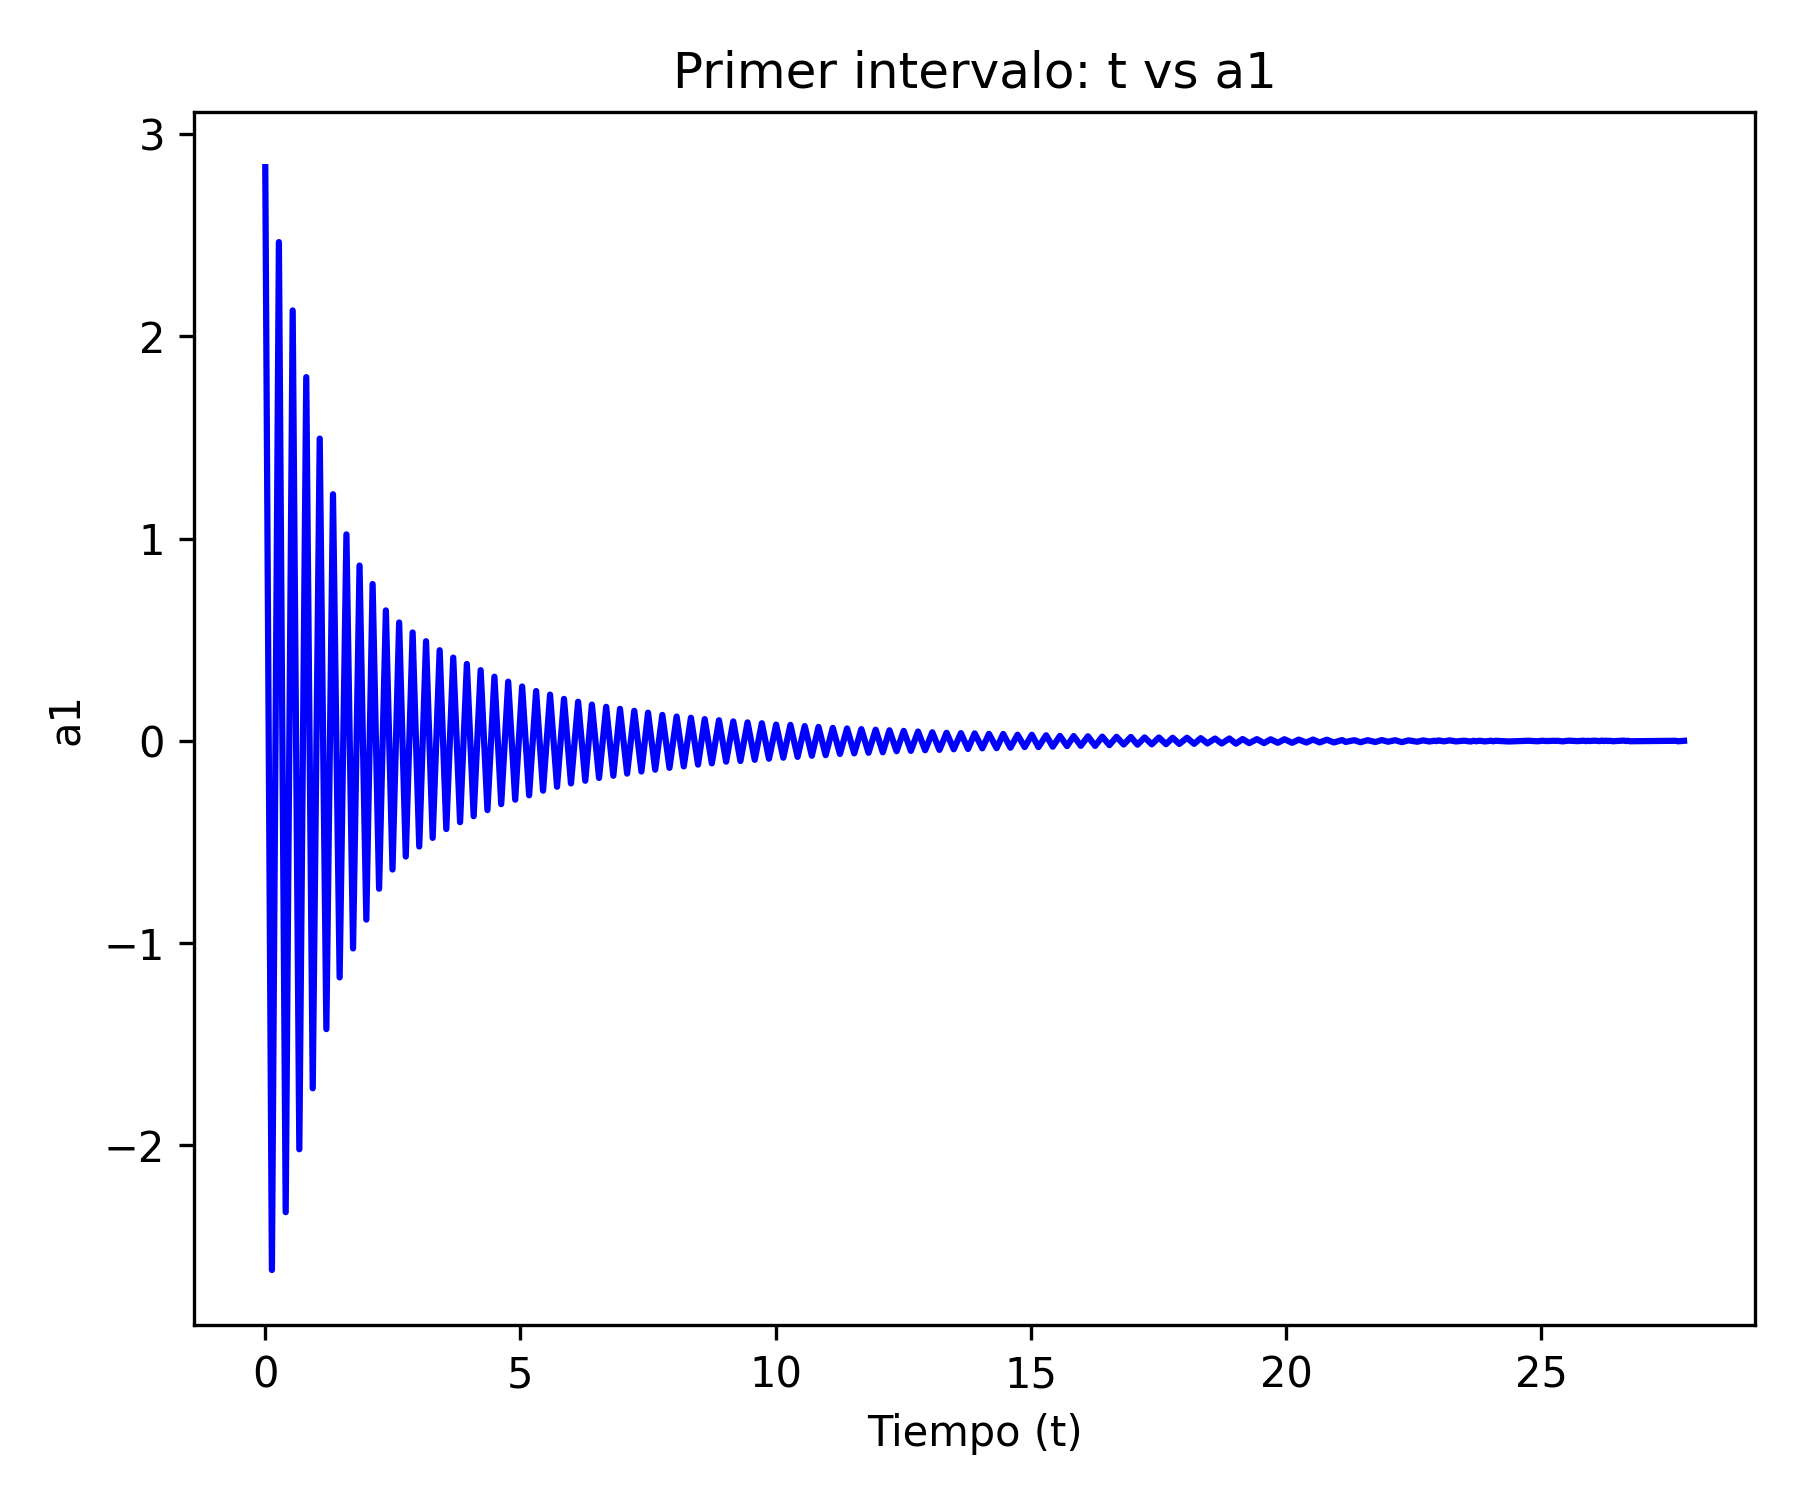
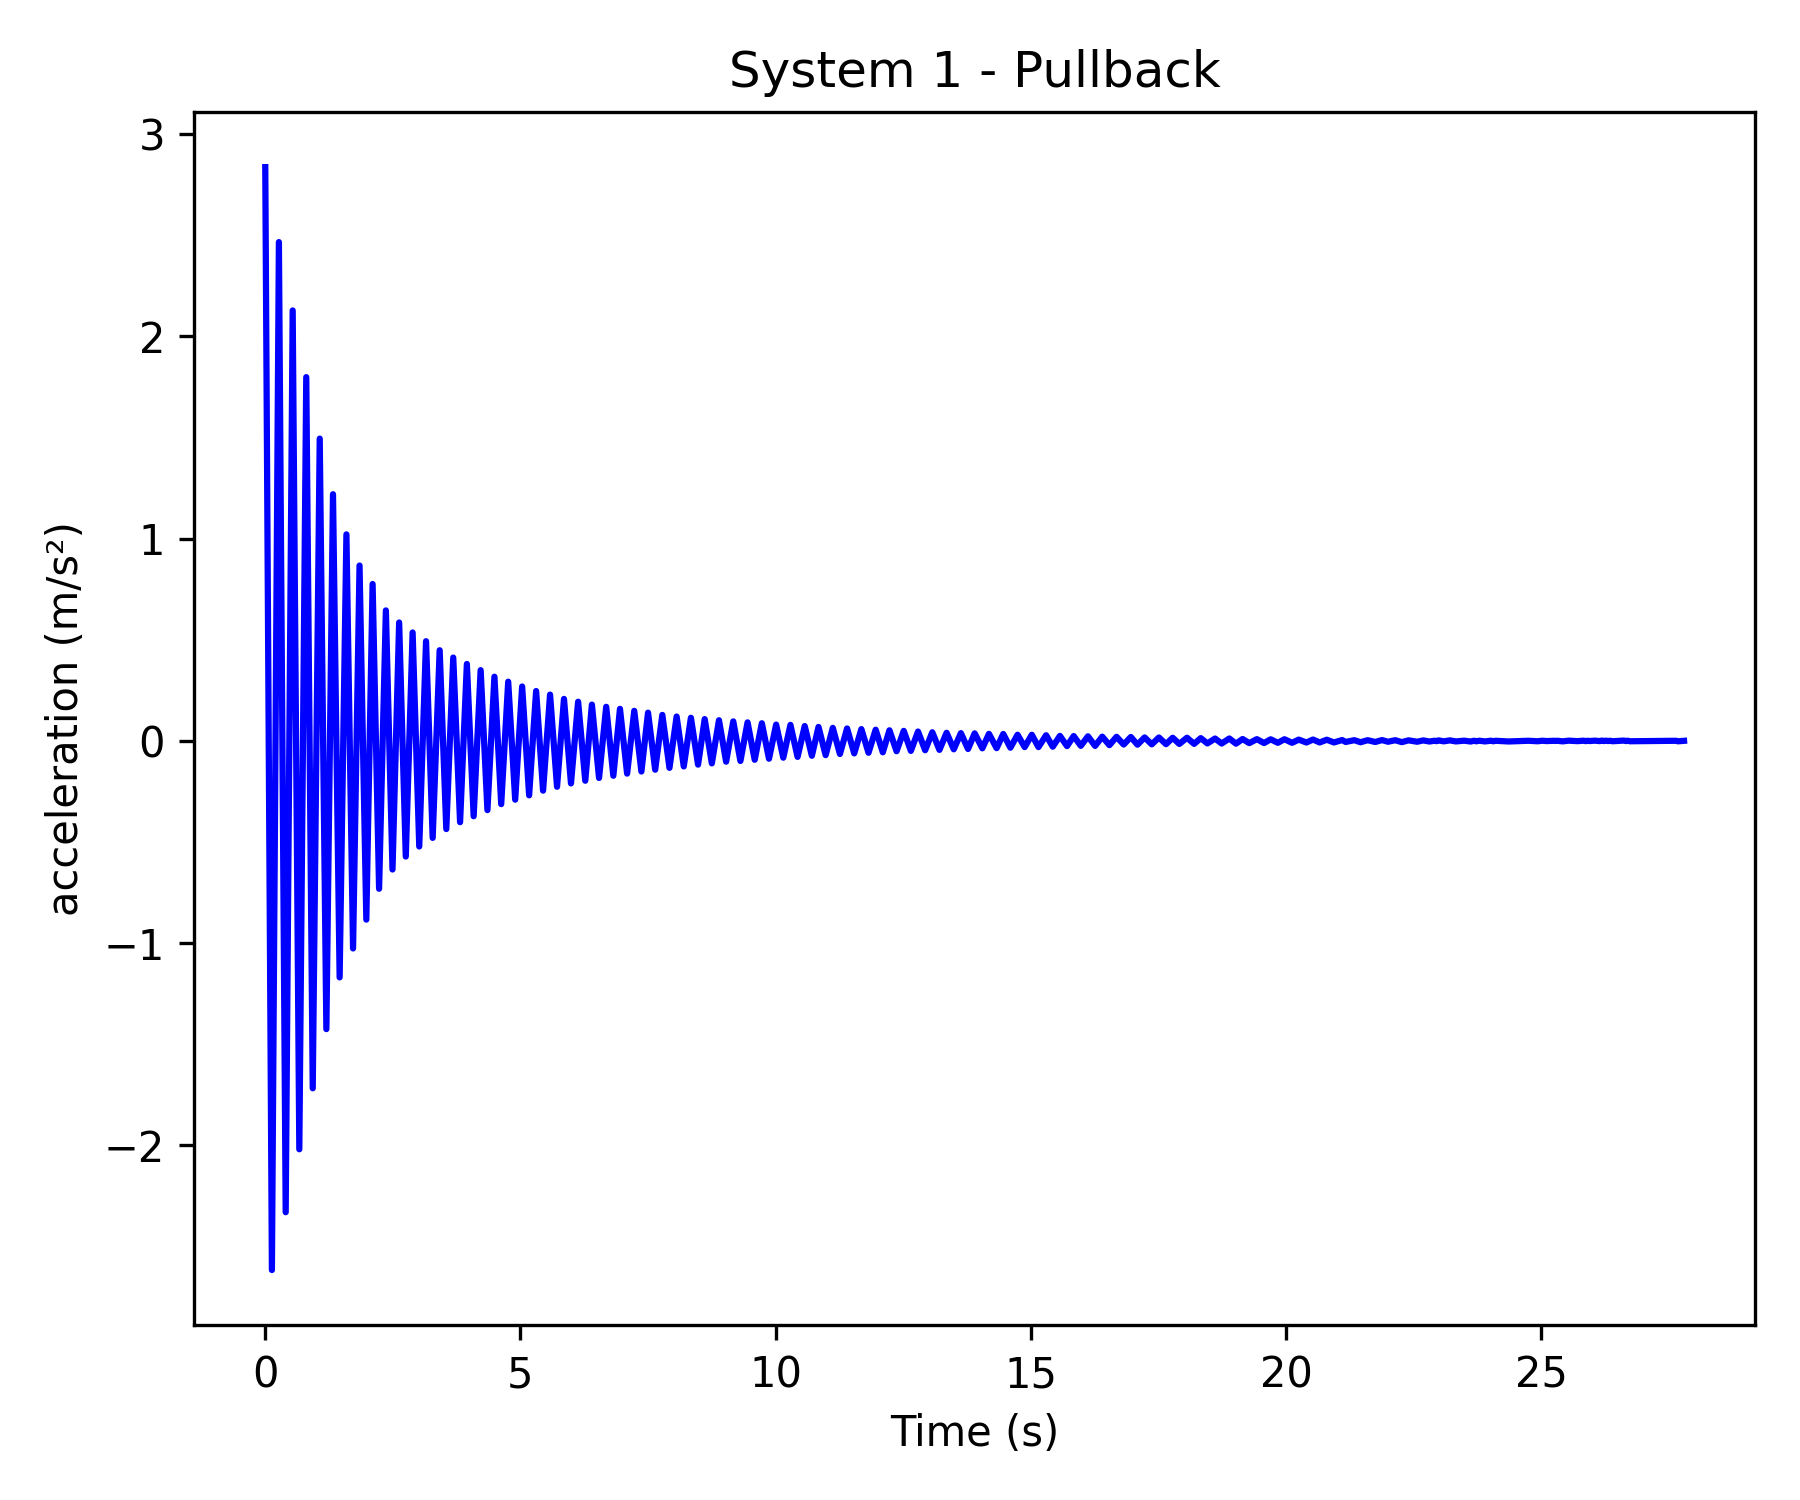
avance

diff --git a/INFORME/Informe.tex b/INFORME/Informe.tex
@@ -199,7 +199,7 @@ To understand the dynamic behavior of complex structures with multiple degrees o
   \label{fig:sdof}
 \end{figure}
   
-The experimental structure used to model the single degree of freedom (SDOF) system consists of a vertical flexible rod rigidly fixed at its base. At the top of the rod, a small mass is attached, allowing for lateral motion when the system is excited. The input motion is applied at the base (as indicated by the “Input” label in the figure), while the output is measured at the top mass using a acceleration sensor (labeled “Output”). This setup simulates the behavior of an idealized SDOF system by allowing one mode of vibration in the lateral direction, the mass, the flexural stiffness of the rod, and the system's inherent damping.
+The experimental structure used to model the single degree of freedom (SDOF) system consists of a vertical flexible rod rigidly fixed at its base. At the top of the rod, a small mass is attached, allowing for lateral motion when the system is excited. The input motion is applied at the base (as indicated by the “Input” label in the figure), while the output is measured at the top mass using a acceleration sensor (labeled “Output”). This setup simulates the behavior of an idealized SDOF system by allowing one mode of vibration in the lateral direction, the mass, the flexural stiffness of the rod, and the system's inherent damping. It is important to note that, there will be 2 systems analyzed in this laboratory, one without damping (system 1) and one with damping (system 2). The system with damping will have a toothbrush as a damper, while the system without damping will not. 
 
 
 
@@ -268,6 +268,7 @@ The harmonic base excitation is a phenomenon that occurs when a system is subjec
 Transmissibility is a measure of how much the input motion is transmitted to the output of a system. It is defined as the ratio of the output response to the input response, and it can be calculated using the following formula:
 \begin{equation}
 TR = \frac{\ddot{X}}{\ddot{X_g}} = \sqrt{\frac{1+(2 \beta (\bar{\omega}/\omega_n)^2}{(1 - \frac{\bar{\omega}^2}{\omega_n^2})^2 + (2\beta\frac{\bar{\omega}}{\omega_n})^2}} 
+\label{eq:transmissibility}
 \end{equation}
 Where:
 \begin{itemize}
@@ -390,7 +391,24 @@ Post-processing of the data enabled the identification of the system’s dynamic
 
 \newpage
 \section{Results}
- 
+To analise the results, we needed to process the data obtained from the sensors. This means that we needed to detrend the data and filter it to remove unwanted components. After that, the results were plotted and analyzed. The results are shown below.
+\subsection{Filtered Signal}
+\begin{figure}[h]
+  \centering
+  \includegraphics[width=0.5\textwidth]{GRAFICOS/pullback_first.png}
+  \caption{Filtered signal of the pull-back test of system 1.}
+  \label{fig:filtered_signal1}
+\end{figure}
+
+\begin{figure}[h]
+  \centering
+  \includegraphics[width=0.5\textwidth]{GRAFICOS/pullback_second.png}
+  \caption{Filtered signal of the pull-back test of system 1.}
+  \label{fig:filtered_signal2}
+\end{figure}
+
+With the filtered signal, we can start the analysis of the systems.
+
 \subsection{Pull-back Test}
 \subsubsection{Determination of the damping period, natural period and damping ratio}
 To determine the period of the systems, we used the logarithmic decrement method. This method is based on the analysis of the acceleration signal obtained from the accelerometer during the pull-back test. The logarithmic decrement is calculated using equation (\ref{eq:log_dec}).\\
@@ -414,6 +432,8 @@ Then, we analised the acceleration signal obtained from the system with damping 
   \label{fig:pullback2}  
 \end{figure}
 
+\newpage
+
 \begin{table}[h]
 \centering
   \begin{tabular}{|c|c|c|}
@@ -428,30 +448,13 @@ Then, we analised the acceleration signal obtained from the system with damping 
 \label{tab:pullback}
 \end{table}
 
+As shown in Table~\ref{tab:pullback}, the natural period of the system without damping (system 1) is 0.262246 s, is slightly higher than the natural period of the system with damping (system 2), which is 0.249264 s. This is expected, as the presence of damping reduces the natural frequency of the system.\\
 
-\subsection{Test with harmonic vibration at the base of varying fraequencies}
+Figures~\ref{fig:pullback1} and~\ref{fig:pullback2} display the natural logarithm of acceleration versus time for Systems 1 and 2, respectively. For System 1, the regression line shows a slope of approximately $-0.28$, while for System 2 the slope is about $-0.29$. These results are consistent with the damping ratios previously calculated using the system's natural frequencies. Both systems exhibit very low damping, confirming that they behave as lightly damped single-degree-of-freedom systems. The linear trend of the logarithmic amplitude also supports the assumption of linear damping in the analysis.
 
-\subsection{Seismic test with real earthquake records}
+\subsection{Test with harmonic vibration at the base of varying frequencies}
 
-\section{Results - SEGUIR ANALIZANDO LOS CASOS Y COMPARARLOS}
-
-\subsection{Transmissibility Function}
-
-In this section, the natural frequency and damping ratio were adjusted so that the transmissibility function  fits the experimental data. The algorithm took as initial parameters the natural frequency and damping ratio obtained from the pull-back test. The transmissibility function was calculated using the following equation:
-
-\begin{equation}
-  TR = \frac{\ddot{u}}{\ddot{u_g}} = \sqrt{\frac{1+(2 \beta (\bar{\omega}/\omega_n)^2}{(1 - \frac{\bar{\omega}^2}{\omega_n^2})^2 + (2\beta\frac{\bar{\omega}}{\omega_n})^2}}
-\end{equation}
-
-Where:
-\begin{itemize}
-  \item $TR$ = transmissibility (dimensionless)
-  \item $\ddot{u_g}$ = output acceleration (m/s$^2$) (acceleration of the base) 
-  \item $\ddot{u}$ = input acceleration (m/s$^2$) (acceleration of the mass)
-  \item $\bar{\omega}$ = frequency of the input motion (rad/s)
-  \item $\omega_n$ = natural frequency of the system (rad/s)
-  \item $\beta$ = damping ratio (dimensionless)
-\end{itemize}
+In this section, the natural frequency and damping ratio were adjusted so that the transmissibility function  fits the experimental data. The algorithm took as initial parameters the natural frequency and damping ratio obtained from the pull-back test. The transmissibility function was calculated using equation (\ref{eq:transmissibility}).
 
 The results are shown below:
 
@@ -462,7 +465,7 @@ The results are shown below:
   \label{fig:transmissibility}
 \end{figure}
 
-For better visualization, de frequency data was filtered between 1 - 10 Hz and the adjusted parameters for the function tu fit the experimental data were:
+For better visualization, de frequency data was filtered between 1 - 10 Hz and the adjusted parameters for the function to fit the experimental data were:
 
 \begin{table}[H]
 \centering
@@ -477,7 +480,7 @@ Damping Ratio ($\beta$) & 0.0041 \\ \hline
 
 \subsection{Sismic Response}
 
-This section presents the result of the siesmic response of the structure due to the Concepcion and Kobe earthquakes. The following results were obtained by using the Newmark method.
+This section presents the result of the sismic response of the structure due to the Concepcion and Kobe earthquakes. The following results were obtained by using the Newmark method.
 
 \begin{figure}[H]
   \centering

diff --git a/CODE/pullback.py b/CODE/pullback.py
@@ -74,9 +74,9 @@ def plot_data (data):
 
     # Gráfico de t vs a1
     plt.plot(data['t'], data['a1'], label='a1', color='blue')
-    plt.title('Gráfico de t vs a1')
-    plt.xlabel('Tiempo (t)')
-    plt.ylabel('a1')
+    plt.title('Graph time vs acceleration')
+    plt.xlabel('Time (s)')
+    plt.ylabel('Acceleration (m/s²)')
     plt.tight_layout()
     plt.savefig('INFORME/GRAFICOS/t_vs_a1.png', dpi=300)
     plt.close()
@@ -127,19 +127,19 @@ second_dataframe['t'] = second_dataframe['t'] - second_dataframe['t'].iloc[0]
 # El segundo dataframe está listo
 second_dataframe.head()
 
-def plot_pullback(data, title):
+def plot_pullback(data, title, i):
     # Graficar el primer intervalo (0-35 segundos)
     plt.figure(figsize=(6, 5))
     plt.plot(data['t'], data['a1'], label='a1', color='blue')
-    plt.title('Primer intervalo: t vs a1')
-    plt.xlabel('Tiempo (t)')
-    plt.ylabel('a1')
+    plt.title(f'System {i} - Pullback')
+    plt.xlabel('Time (s)')
+    plt.ylabel('acceleration (m/s²)')
     plt.tight_layout()
     plt.savefig(f'INFORME/GRAFICOS/pullback_{title}.png', dpi=300)
     plt.close()
 
-plot_pullback(first_dataframe, 'first')
-plot_pullback(second_dataframe, 'second')
+plot_pullback(first_dataframe, 'first', 1)
+plot_pullback(second_dataframe, 'second', 2)
 
 # Ahora agrego una nueva columna a cada dataframe para poder hacer la regresión lineal
 first_dataframe.loc[:, 'ln_a1'] = np.log(np.abs(first_dataframe['a1'] * g))
